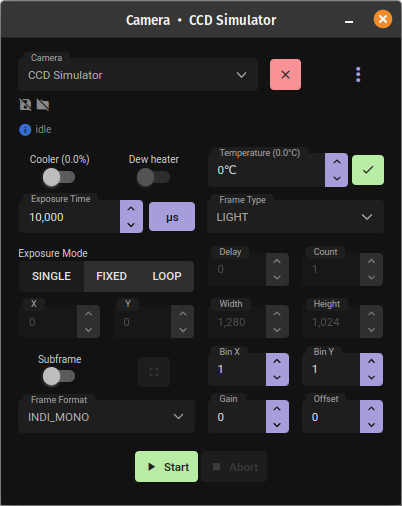
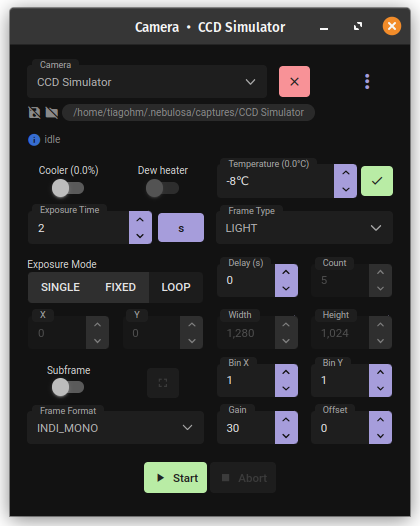
[desktop]: Improve Camera layout

diff --git a/desktop/src/app/camera/camera.component.html b/desktop/src/app/camera/camera.component.html
@@ -9,21 +9,24 @@
         </div>
         <div class="col-2">
             <p-button *ngIf="connected" [disabled]="!camera || capturing" (onClick)="connect()" icon="mdi mdi-close"
-                      styleClass="p-button-danger" />
+                      styleClass="p-button-danger" pTooltip="Disconnect" tooltipPosition="bottom" />
             <p-button *ngIf="!connected" [disabled]="!camera || capturing" (onClick)="connect()" icon="mdi mdi-connection"
-                      styleClass="p-button-info" />
+                      styleClass="p-button-info" pTooltip="Connect" tooltipPosition="bottom" />
         </div>
         <div class="col-2 flex justify-content-center">
             <p-button [disabled]="!camera || capturing" icon="mdi mdi-lg mdi-dots-vertical" (click)="cameraDialogMenu.show()"
                       styleClass="p-button-rounded p-button-text" />
         </div>
         <div class="col-12 pt-0 text-sm text-gray-400 flex align-items-center gap-1">
-            <i *ngIf="autoSave" class="mdi mdi-content-save"></i>
-            <i *ngIf="!autoSave" class="mdi mdi-content-save-off"></i>
-            <i *ngIf="autoSubFolderMode === 'OFF'" class="mdi mdi-folder-off"></i>
-            <i *ngIf="autoSubFolderMode === 'NOON'" class="mdi mdi-weather-sunny text-yellow-600"></i>
-            <i *ngIf="autoSubFolderMode === 'MIDNIGHT'" class="mdi mdi-weather-night text-blue-600"></i>
-            <span style="display: contents">{{ savePath || capturesPath }}</span>
+            <i *ngIf="autoSave" class="mdi mdi-content-save" pTooltip="Auto save: ON" tooltipPosition="bottom"></i>
+            <i *ngIf="!autoSave" class="mdi mdi-content-save-off" pTooltip="Auto save: OFF" tooltipPosition="bottom"></i>
+            <i *ngIf="autoSubFolderMode === 'OFF'" class="mdi mdi-folder-off" pTooltip="Auto sub folder: OFF" tooltipPosition="bottom"></i>
+            <i *ngIf="autoSubFolderMode === 'NOON'" class="mdi mdi-weather-sunny text-yellow-600" pTooltip="Auto sub folder: NOON" tooltipPosition="bottom"></i>
+            <i *ngIf="autoSubFolderMode === 'MIDNIGHT'" class="mdi mdi-weather-night text-blue-600" pTooltip="Auto sub folder: MIDNIGHT" tooltipPosition="bottom"></i>
+            <span *ngIf="camera" style="padding-top: 1px; padding-bottom: 1px; min-height: 17px;" class="flex align-items-center gap-2 bg-gray-800 border-round-2xl px-3">
+                {{ savePath || capturesPath }}
+                <i *ngIf="savePath" class="mdi mdi-close cursor-pointer" pTooltip="Reset" tooltipPosition="bottom" (click)="resetSavePath()"></i>
+            </span>
         </div>
         <div class="col-12 pt-0 text-sm text-gray-400 flex align-items-center my-1 gap-1 text-center text-sm" style="min-height: 25px;">
             <i class="mdi mdi-information text-blue-600"></i>
@@ -84,7 +87,7 @@
                     <label>Temperature ({{ temperature | number: '1.1-1' }}°C)</label>
                 </span>
                 <p-button [disabled]="!connected || !canSetTemperature || capturing" (onClick)="applySetpointTemperature()" icon="mdi mdi-check"
-                          styleClass="p-button-success" />
+                          styleClass="p-button-success" pTooltip="Apply" tooltipPosition="bottom" />
             </div>
         </div>
     </div>
@@ -174,7 +177,7 @@
         </div>
         <div class="col-3 flex pt-3 flex-row align-items-center justify-content-center">
             <p-button [disabled]="!connected || !subFrame || capturing" icon="mdi mdi-fullscreen" (onClick)="fullsize()"
-                      styleClass="p-button-info" />
+                      styleClass="p-button-info" pTooltip="Full size" tooltipPosition="bottom" />
         </div>
         <div class="col-3">
             <span class="p-float-label">

diff --git a/desktop/src/app/camera/camera.component.ts b/desktop/src/app/camera/camera.component.ts
@@ -377,6 +377,11 @@ export class CameraComponent implements AfterContentInit, OnDestroy {
         }
     }
 
+    resetSavePath() {
+        this.savePath = ''
+        this.preference.set(`camera.${this.camera!.name}.savePath`, this.savePath)
+    }
+
     private loadPreference() {
         if (this.camera) {
             this.autoSave = this.preference.get(`camera.${this.camera.name}.autoSave`, false)

diff --git a/desktop/src/shared/services/browser-window.service.ts b/desktop/src/shared/services/browser-window.service.ts
@@ -27,7 +27,7 @@ export class BrowserWindowService {
         this.openWindow({
             ...options,
             id: 'camera', path: 'camera', icon: options.icon || 'camera',
-            width: options.width || 400, height: options.height || 469,
+            width: options.width || 400, height: options.height || 471,
         })
     }
 

diff --git a/desktop/src/styles.scss b/desktop/src/styles.scss
@@ -112,7 +112,7 @@ p-calendar.border-0 .p-calendar-w-btn {
 
 i.mdi {
     aspect-ratio: 1/1;
-    display: contents;
+    display: inline-block;
 }
 
 .p-dialog-content {
